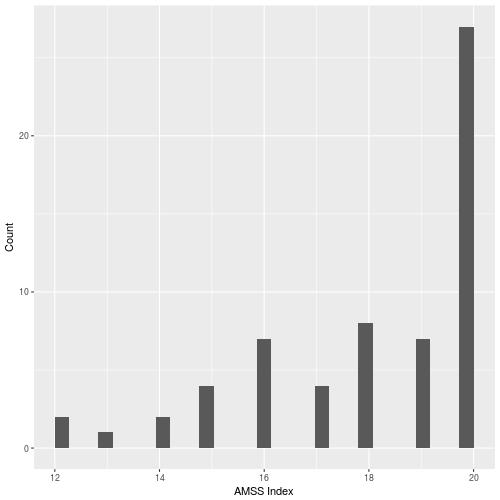
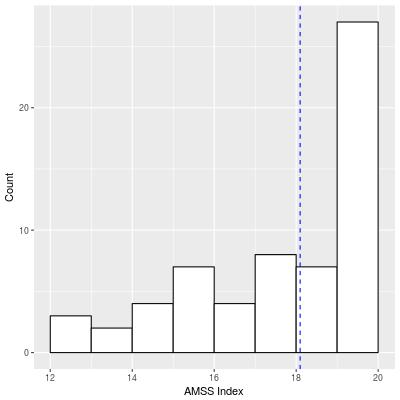
Finished question 3

diff --git a/chapter4.tex b/chapter4.tex
@@ -221,26 +221,40 @@ Up to this point, I've only examined variables in groups, not individually. The 
 The model I ran used major GPA as the dependent variable, and compared it to the CS dummy variable, AE$-$RO, age, and parents education. This model had $p=1.266\times 10^{-10}$, so I reject the null hypothesis that these variables are not significant in explaining the variance in the data. This model reinforces the earlier, multiple regression findings.
 
 \subsection{How strong is the correlation between AC$-$CE and AE$-$RO, and student satisfaction among CS, IS, and IT students?}
-Nuata's AMSS, as enumerated in chapter 1, is graded on a five-point Likert-type scale with two of the responses being negatively scored. Two of the AMSS questions assume that students still have the option of changing their major, but once BYU students get beyond a certain credit threshold (well before their senior year), it becomes impossible for them to change majors. Because of this and the lack of variance among the responses, these questions were dropped from the analysis.
+Nuata's AMSS, as enumerated in chapter 1, is graded on a five-point Likert-type scale with two of the responses being negatively scored. Two of the AMSS questions assume that students still have the option of changing their major, but once BYU students get beyond a certain credit threshold (well before their senior year), it becomes impossible for them to change majors. Because of this and the lack of variance among the responses, these questions were dropped from the analysis:
+\begin{enumerate}
+  \item I am strongly considering changing to another major.
+  \item I would like to talk to someone about changing my major.
+\end{enumerate}
 
-I created a summary index (Table~\ref{tab:nuata-summary-index}) of academic major satisfaction using the remaining AMSS variables and reverse coded the negatively-scored variables. In this summary index, the least satisfied value was a 4 and the most satisfied was a 20.
+I created a summary index of academic major satisfaction using the remaining AMSS variables and reverse coded the negatively-scored variables. In this summary index, the least satisfied value was a 4 and the most satisfied was a 20, with a mean of $18.10$ ($\sigma=2.2595$). This data is heavily left-skewed (see Figure~\ref{fig:amss_index_plot}).
 
-\begin{table}[!htb]
+\begin{figure}[!hbtp]
   \centering
-  \caption{Summary Index of AMSS}
-  \label{tab:nuata-summary-index}
-  \begin{tabular}{cccccc}
+  \includegraphics[width=0.5\textwidth]{figures/chapter4/amss_index_plot.jpg}
+  \caption{AMSS Index Histogram}
+  \label{fig:amss_index_plot}
+\end{figure}
+
+I then ran Pearson's $r$ for the data and found no statistically significant results (see Table~\ref{tab:amss_corr}), suggesting that there is no relationship between learning style and major satisfaction.
+
+\begin{table}[!hbtp]
+  \centering
+  \caption{AMSS Correlations}
+  \label{tab:amss_corr}
+  \begin{tabular}{lll}
     \toprule
-    Min.  & 1st Qu. & Median & Mean  & 3rd Qu. &Max. \\
+    $x$           & $y$        & $p$ \\
     \midrule
-    12.00 &  16.25  & 19.00  & 18.10 & 20.00   & 20.00 \\
+    AMSS index    & AE$-$RO    & 0.1059 \\
+    AMSS index    & AC$-$CE    & 0.8563 \\
+    CS AMSS index & CS AC$-$CE & 0.8134 \\
+    CS AMSS index & CS AE$-$RO & 0.1237 \\
+    IT AMSS index & IT AC$-$CE & 0.9566 \\
+    IT AMSS index & IT AE$-$RO & 0.5147 \\
     \bottomrule
   \end{tabular}
 \end{table}
-
-Next, I checked the simple correlations between AE$-$RO and AC$-$CE with the satisfaction index. The Pearson coefficients are $-0.1206$ ($p=0.4645$) and $-0.0622$ ($p=0.7064$), respectively. It is possible that the relationship could only exist for the RO value, since this was the only value correlated with major GPA in the previous section. Checking for that, I found a Pearson correlation coefficient of $0.2634$ ($p=0.1051$). This means that even restricting to just RO and IT majors fails to find a statistically significant correlation ($0.2483$, $p=0.2652$).
-
-None of these correlations were statistically significant, suggesting that there is no relationship between learning style and major satisfaction.
 
 \subsection{Is there a correlation between major GPA and student satisfaction?}
 The Pearson correlation coefficient of major GPA and the satisfaction index is $-0.1198$ ($p=0.4677$). This is statistically insignificant, so I am unable to say that there is a correlation between the two. The coefficient is negative, so if the correlation was significant it would indicate that students with higher major GPAs were generally less satisfied than students with lower GPAs.
